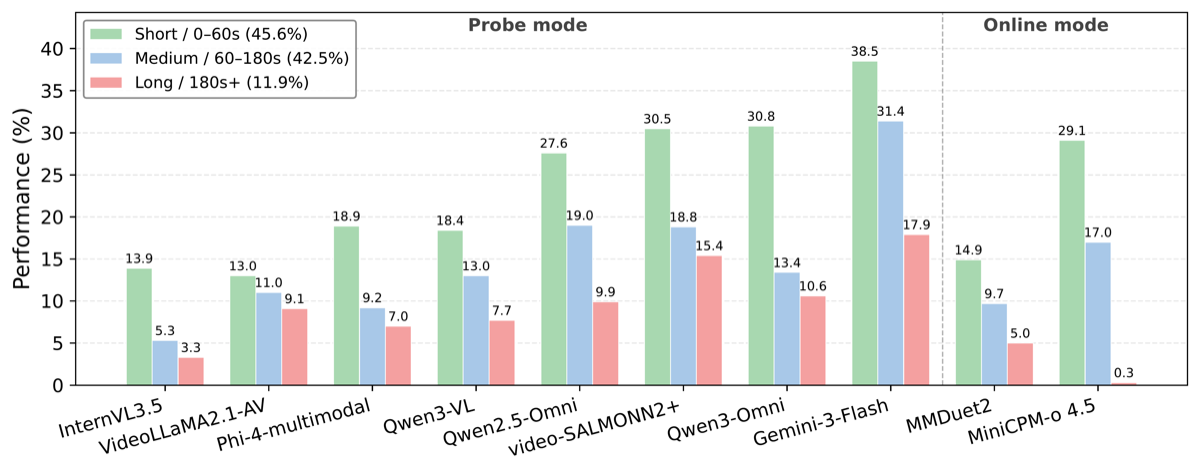
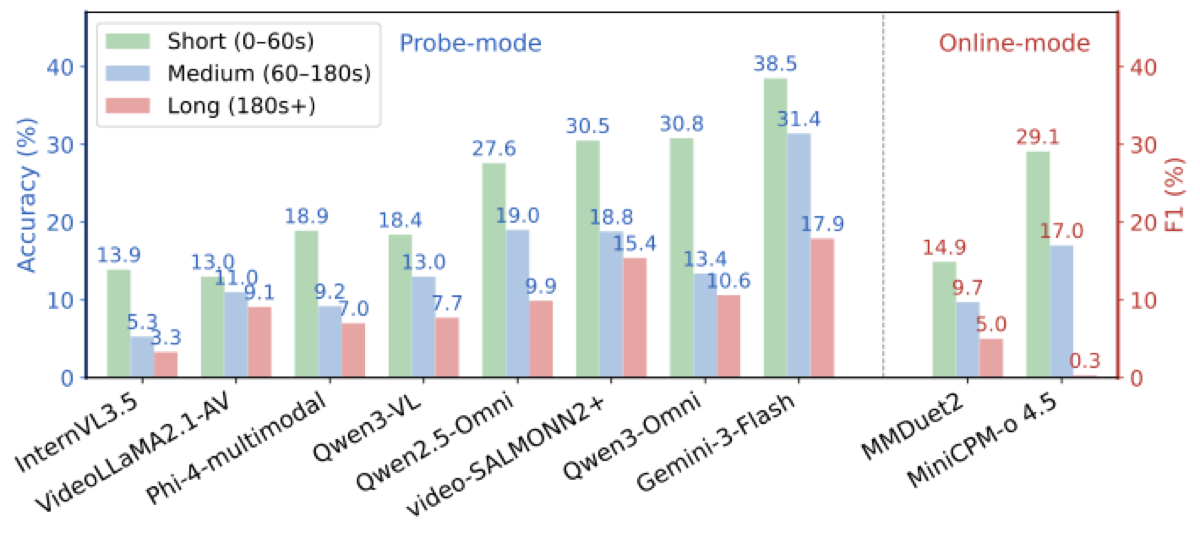
Update figures and key findings to match paper
- Regenerate audio_dependency_per_task.png from latest PDF
- Regenerate temporal_position_ablation.png from latest PDF
- Update Figure 1 caption to match paper
- Update Key Findings to align with paper conclusions

diff --git a/index.html b/index.html
@@ -70,7 +70,7 @@
     <div class="hero-body" style="padding-top:0;">
       <img src="./static/images/benchmark.png" alt="OmniPro Overview" width="100%" style="border-radius:8px; box-shadow:0 4px 16px rgba(0,0,0,0.1);">
       <p class="has-text-centered" style="margin-top:0.8rem; font-size:0.95rem; color:#666;">
-        <b>Figure 1.</b> OmniPro: 9 sub-tasks × 3 cognitive levels × 6 capabilities, with 84% audio dependency.
+        <b>Figure 1.</b> Overview of OmniPro. The benchmark comprises 9 sub-tasks organized into three cognitive levels, collectively covering 6 basic video understanding capabilities.
       </p>
     </div>
   </div>
@@ -375,10 +375,10 @@
     <h2 class="title is-3 has-text-centered">Key Findings</h2>
     <div class="content" style="max-width:800px; margin:1.5rem auto 0;">
       <ul style="font-size:1.05rem; line-height:1.9;">
-        <li><b>Audio utilization varies widely:</b> A+V gains range from +2.4 to +11.1 across omni models.</li>
-        <li><b>Temporal degradation:</b> Models retain only 37% of early-segment performance on late triggers (180s+).</li>
-        <li><b>Non-speech sound is the weakest link:</b> All models perform worst on visual+sound triggers (15.3–22.3%).</li>
-        <li><b>Online mode adds fundamental difficulty:</b> The coupled challenge of <em>when-to-speak</em> and <em>what-to-say</em> severely degrades generation tasks.</li>
+        <li><b>Proprietary vs. open-source gap:</b> Gemini-3-Flash achieves 40.4% accuracy, nearly double the best open-source model (22.6%), with the largest gap on reasoning-level tasks.</li>
+        <li><b>Divergent modality utilization:</b> Audio and video provide complementary cues (A+V gains range from +2.4 to +11.1), yet models exhibit divergent patterns—some rely on audio, others on vision.</li>
+        <li><b>Long-horizon degradation:</b> All models struggle to perceive events occurring late in videos, retaining only 37% of early-segment performance at 180s+.</li>
+        <li><b>Non-speech sound is the weakest link:</b> All models perform worst on visual+sound triggers (15.3–22.3%), revealing a shared bottleneck.</li>
       </ul>
     </div>
   </div>